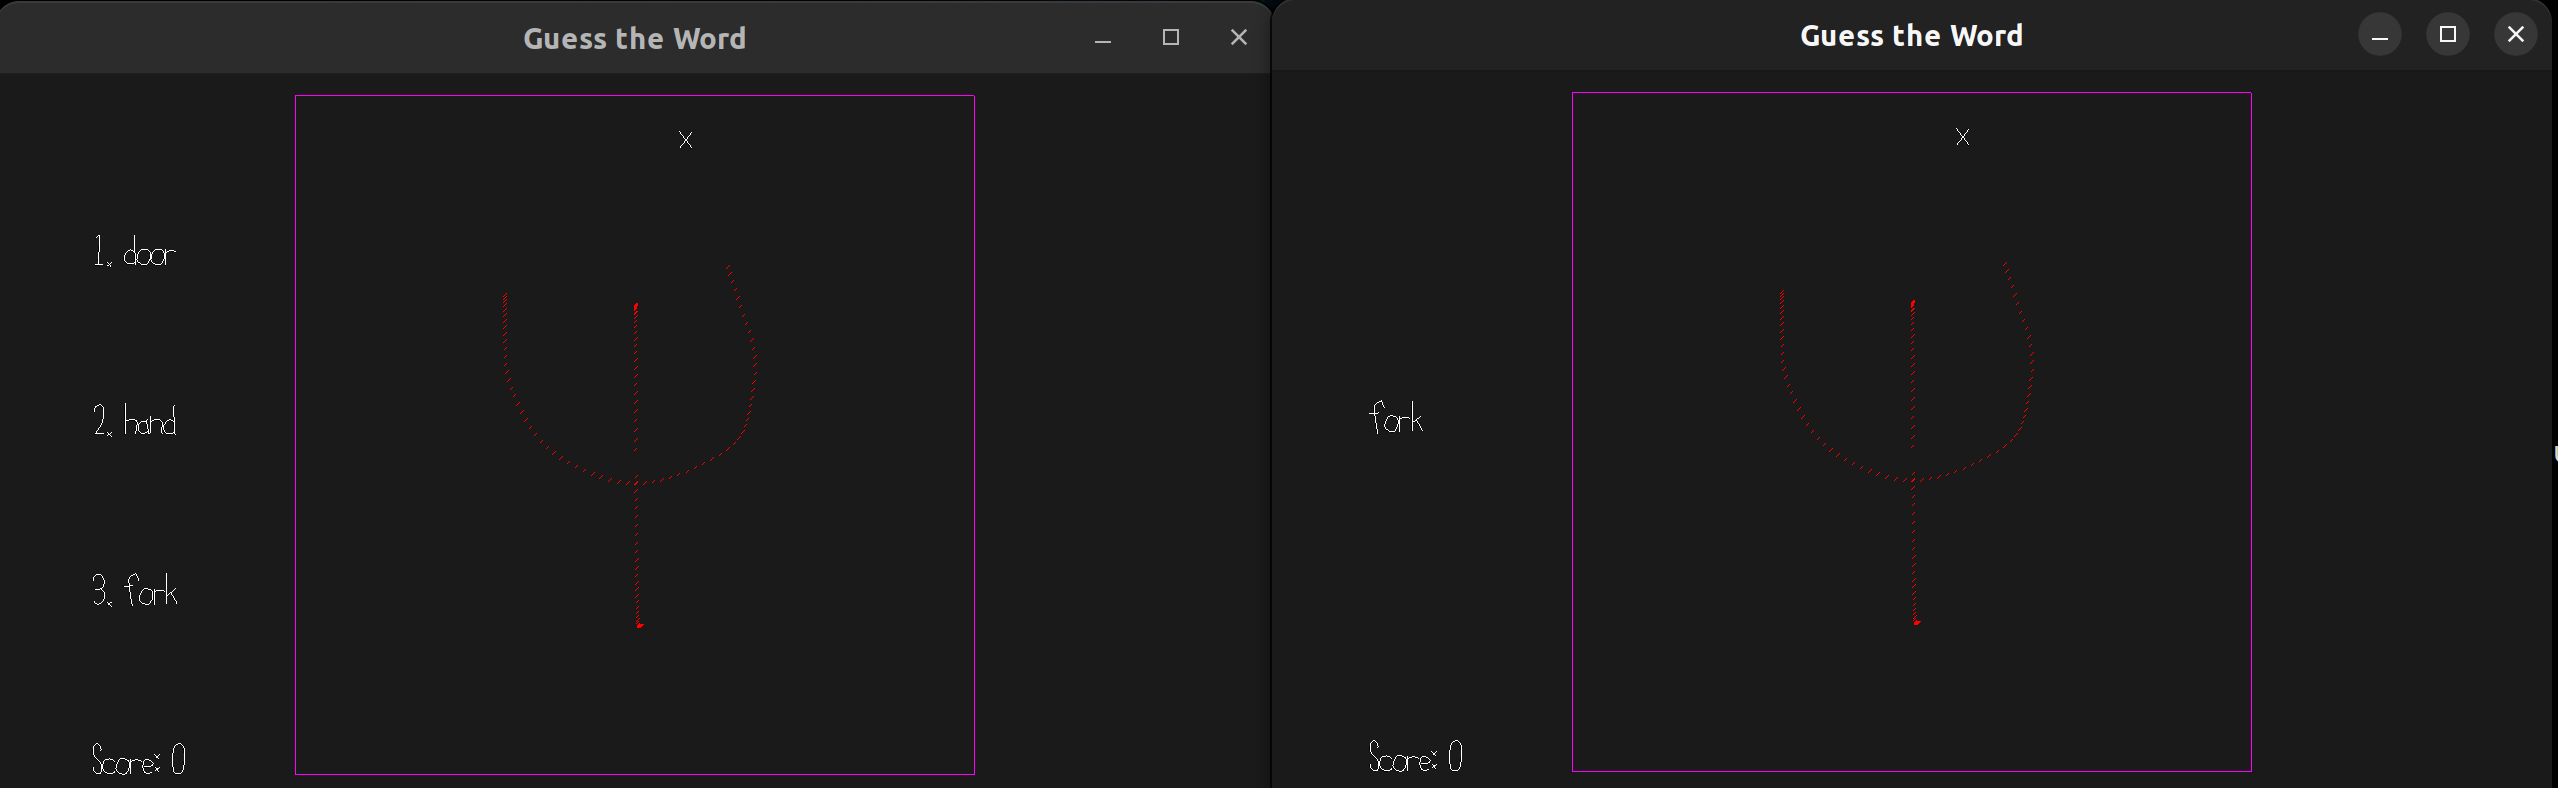
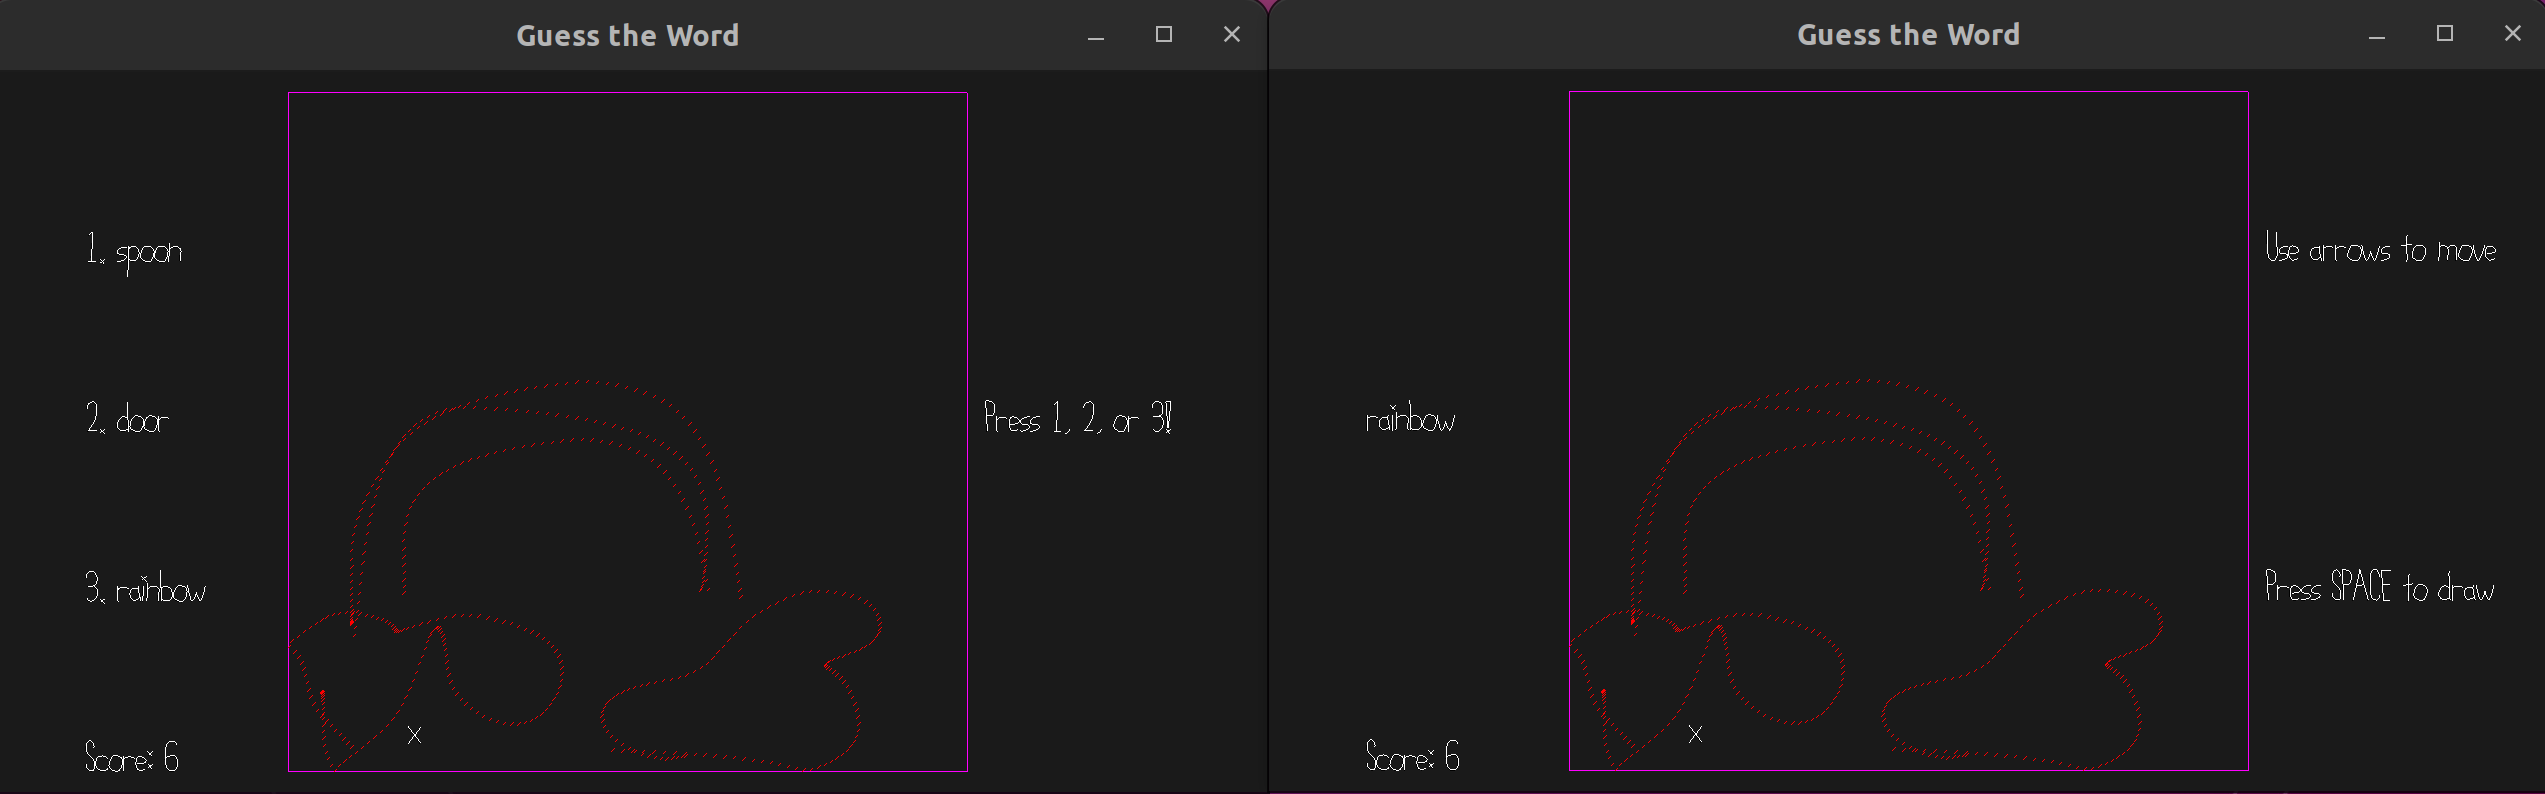
game complete

diff --git a/PlayMode.cpp b/PlayMode.cpp
@@ -216,15 +216,13 @@ void PlayMode::draw(glm::uvec2 const &drawable_size)
 		lines.draw(glm::vec3(Game::ArenaMin[0].x, Game::ArenaMin[0].y, 0.0f), glm::vec3(Game::ArenaMin[0].x, Game::ArenaMax[0].y, 0.0f), glm::u8vec4(0xff, 0x00, 0xff, 0xff));
 		lines.draw(glm::vec3(Game::ArenaMax[0].x, Game::ArenaMin[0].y, 0.0f), glm::vec3(Game::ArenaMax[0].x, Game::ArenaMax[0].y, 0.0f), glm::u8vec4(0xff, 0x00, 0xff, 0xff));
 
+		// draw the score to the screen
+		std::string scoreString = "Score: " + std::to_string(int(game.game_state.game_score));
+		draw_text(glm::vec2(Game::ArenaMin[0].x - 0.6f, Game::ArenaMax[0].y - 0.5f * 4), scoreString, 0.09f);
 
 		for (auto const &player : game.players)
 		{
 			glm::u8vec4 col = glm::u8vec4(255, 0x00, 0x00, 0xff);
-
-			// draw the score to the screen
-			std::string scoreString = "Score: " + std::to_string(int(game.game_state.game_score));
-			draw_text(glm::vec2(Game::ArenaMin[0].x - 0.6f, Game::ArenaMax[0].y - 0.5f * 4), scoreString, 0.09f);
-
 
 			if (player.name == "Drawer")
 			{
@@ -238,7 +236,7 @@ void PlayMode::draw(glm::uvec2 const &drawable_size)
 						glm::vec3(p + glm::vec2(0.01f, 0.01f), 0.0f),
 						col);
 				}
-				draw_text(player.position + glm::vec2(0.0f, -0.1f), "x", 0.09f);
+				draw_text(player.position + glm::vec2(0.0f, 0.0f), "x", 0.09f);
 			}
 		}
 
@@ -247,8 +245,12 @@ void PlayMode::draw(glm::uvec2 const &drawable_size)
 
 			if (player.name == "Drawer")
 			{
-				draw_text(player.position + glm::vec2(0.0f, -0.1f), "x", 0.09f);
 				draw_text(glm::vec2(Game::ArenaMin[0].x - 0.6f, Game::ArenaMax[0].y - 1.0f), word_list[game.game_state.game_info[game.game_state.game_info.w]], 0.09f);
+
+				draw_text(glm::vec2(Game::ArenaMax[0].x + 0.05f, Game::ArenaMax[0].y - 1.5f), "Press SPACE to draw", 0.09f);
+
+				draw_text(glm::vec2(Game::ArenaMax[0].x + 0.05f, Game::ArenaMax[0].y - 0.5f), "Use arrows to move", 0.09f);
+
 				break;
 			}
 			else if (player.name == "Guesser")
@@ -259,6 +261,7 @@ void PlayMode::draw(glm::uvec2 const &drawable_size)
 					std::string resultString = std::to_string(i + 1) + ". " + game.word_list[game.game_state.game_info[i]];
 					draw_text(glm::vec2(Game::ArenaMin[0].x - 0.6f, Game::ArenaMax[0].y - 0.5f * (i + 1)), resultString, 0.09f);
 				}
+				draw_text(glm::vec2(Game::ArenaMax[0].x + 0.05f, Game::ArenaMax[0].y - 1.0f), "Press 1, 2, or 3!", 0.09f);
 				break;
 			}
 		}

diff --git a/client.cpp b/client.cpp
@@ -72,7 +72,7 @@ int main(int argc, char **argv) {
 	);
 
 	//prevent exceedingly tiny windows when resizing:
-	SDL_SetWindowMinimumSize(window,150,100);
+	SDL_SetWindowMinimumSize(window, 1280, 720);
 
 	if (!window) {
 		std::cerr << "Error creating SDL window: " << SDL_GetError() << std::endl;

diff --git a/README.md b/README.md
@@ -1,6 +1,8 @@
 # Guess the Word!
 
-## Author: Jiyoon Park 
+## Author: 
+
+Jiyoon Park 
 
 ## Design: 
 
@@ -8,7 +10,7 @@ In this two person game (Drawer and Guesser), the Guesser has to guess what the 
 
 ## Networking: 
 
-(TODO: How does your game implement client/server multiplayer? What messages are transmitted? Where in the code?)
+The game implements the client/server multiplayer by passing messages between each other. There are three messages that are being sent over the network. the control_message that send the user's input to the server, the player_state message that carries the player's position and velocity and the game_state message that carries the target and candidate words. Recieving the message happens in PlayMode.cpp, Connection.cpp, server.cpp. The server.cpp, Connection.cpp, PlayMode.cpp sends the message. 
 
 ## Screen Shot:
 
@@ -16,13 +18,25 @@ In this two person game (Drawer and Guesser), the Guesser has to guess what the 
 
 ## How To Play:
 
+In separate terminals:
+```
+./server 15466
+```
+
+```
+./client localhost 15466
+```
+
+```
+./client localhost 15466
+```
 - The first client is the Drawer and the second client is the Guesser
 
 ### Drawer
 
 - You are given a word to draw. 
 
-- You have to navigate around the canvas and draw!
+- You have to navigate around (using up, down, left right) the canvas and draw!
 
 - Your pen will only draw when you are pressing down the __SPACE BAR__!
 
@@ -36,22 +50,11 @@ In this two person game (Drawer and Guesser), the Guesser has to guess what the 
 
 - Once you catch what the drawing is of, press __1__ or __2__ or __3__ to check if your guess is correct!
 
-- If you want to play the game again when it is over, press __r__ ( just pressing __r__ randomly will just lower your score)
+- If you want to play the game again when it is over, press __r__ ( just pressing __r__ randomly will just lower your score as a penalty)
 
 ### General 
 
-
+- You can only have two players. Once two players are in the game, the game shuts down if a new player tries to enter the game. 
 
 
 This game was built with [NEST](NEST.md).
-
-## TODOs
-
-[x] guesser location separation
-[x] guesser movement, input 
-[x] score board
-[x] clear the drawer's list after level resets
-[x] display text
-[x] send over the chosen words over network 
-[x] even if it is wrong, the score goes up
-[x] why does it overlay words?
